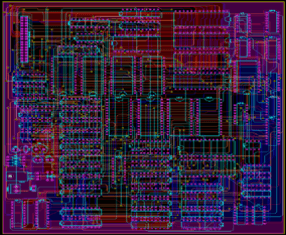
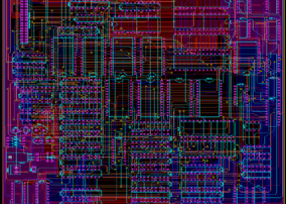
updated images

diff --git a/_projects/up.md b/_projects/up.md
@@ -2,7 +2,7 @@
 layout: page
 title: Microprocessor Implementations
 description: Estimated the Remaining Useful Life of Li-ion EV batteries with an R2 score of 98.09
-img: assets/img/micro.webp
+img: assets/img/micro.png
 importance: 11
 category: "Technical Projects"
 related_publications:
